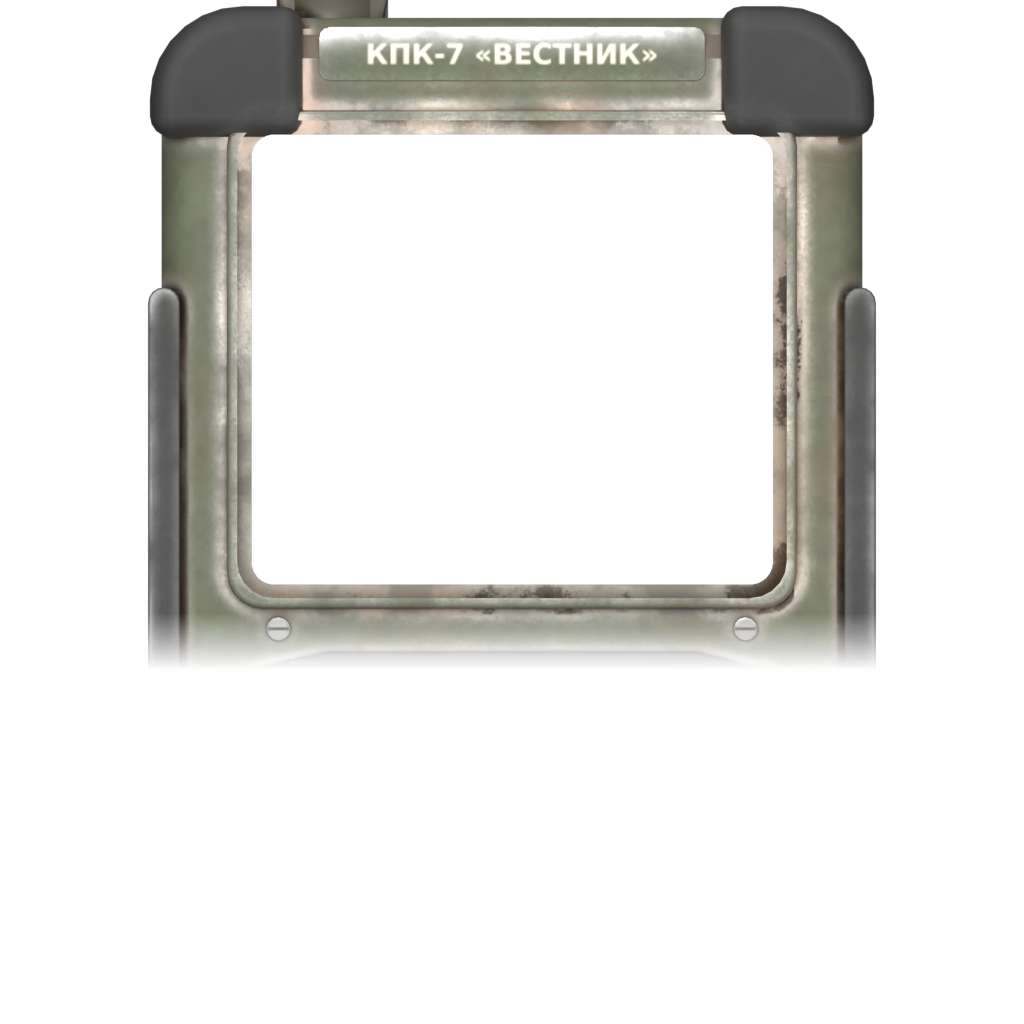
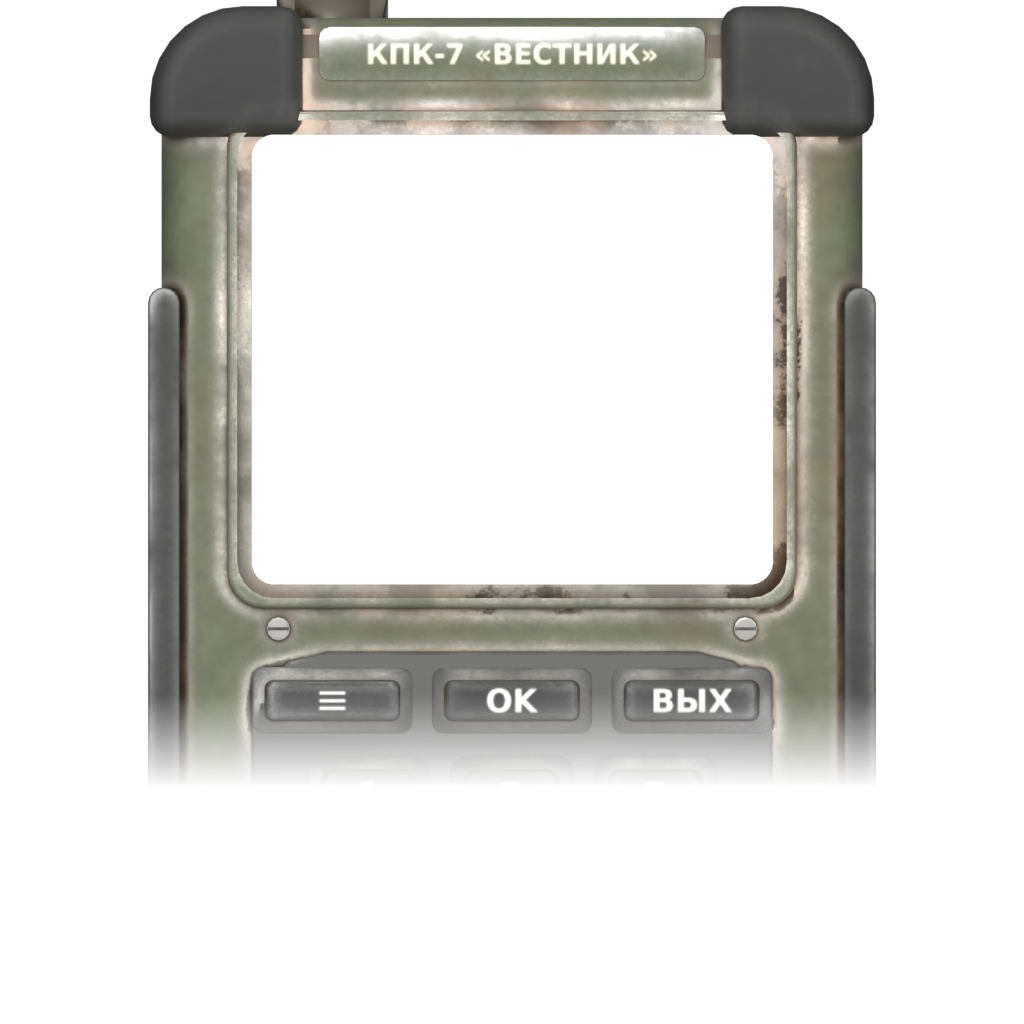
Case picture under the interface (no more dark patches through the window), brick window smaller with its keys showing, module tabs re-shown every second
Claude-Session: https://claude.ai/code/session_01TKUioDRiTwAz56zuW7crLS

Changed region(s): [[0.125, 0.5938, 0.875, 0.7812]]

diff --git a/KPK/scripts/5_Mission/KPK/KPK_Menu.c b/KPK/scripts/5_Mission/KPK/KPK_Menu.c
@@ -331,19 +331,18 @@ class KPK_Menu extends UIScriptedMenu
 			wFrac = 0.97;
 			hFrac = wFrac * scrW / (aspect * scrH);
 		}
-		// the brick: the screen twice as big; the case runs off the bottom of the screen (the picture
-		// fades out there), the top label stays just inside
+		// the brick: a bigger screen; the case runs off the bottom of the screen and fades out there
 		if (model == KPK_Model.BRICK)
 		{
-			hFrac = 1.8;
+			hFrac = 1.3;
 			wFrac = hFrac * scrH * aspect / scrW;
-			float top = 0.06 - sv * hFrac;
+			float top = 0.0;
 			device.SetPos(0, top + hFrac * 0.5 - 0.5);
 		}
 		device.SetSize(wFrac, hFrac);
 
-		// the screen reaches a little under the case edge so no gap shows
-		float pad = 0.004;
+		// the case picture lies under the interface: the screen sits a hair inside the window edge
+		float pad = -0.003;
 		m_Screen.SetPos(su - pad, sv - pad * aspect);
 		m_Screen.SetSize(sw + pad * 2, sh + pad * 2 * aspect);
 
@@ -1833,6 +1832,8 @@ class KPK_Menu extends UIScriptedMenu
 		if (m_Theme.Glitch)
 			header = KPK_Theme.Noise(header, 0.3);
 		m_HeaderLeft.SetText(header);
+		// the module tabs sometimes vanished: show them again with every clock tick
+		ShowTabs(m_Page >= 0 && m_Page < TAB_COUNT);
 
 		int year, month, day, hour, minute;
 		GetGame().GetWorld().GetDate(year, month, day, hour, minute);

diff --git a/source/models/ref/ui_cut.py b/source/models/ref/ui_cut.py
@@ -26,8 +26,8 @@ for n in ["m1", "mil", "nii", "mono", "brick"]:
     if "fade" in j:
         # in game the brick picture is 1.82 screen heights tall and runs off the bottom: fade out
         # just above the bottom edge of the screen (around the first key row)
-        top_ = 0.06 - 0.13158 * 1.8
-        f0, f1 = (0.9 - top_) / 1.8 * H, (1.0 - top_) / 1.8 * H
+        top_ = 0.0
+        f0, f1 = (0.88 - top_) / 1.3 * H, (1.0 - top_) / 1.3 * H
         yy = np.arange(H, dtype=np.float32)[:, None]
         alpha = alpha * np.clip((f1 - yy) / (f1 - f0), 0, 1)
     a[..., 3] = alpha
